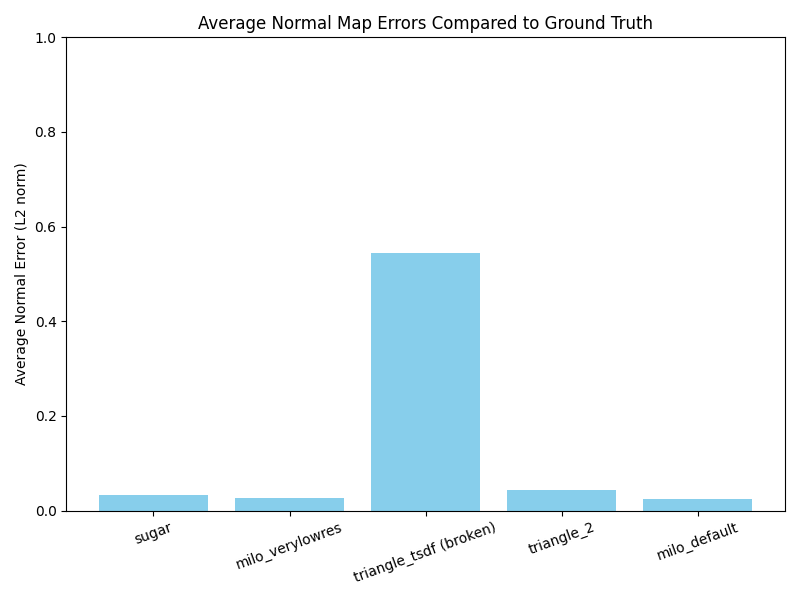
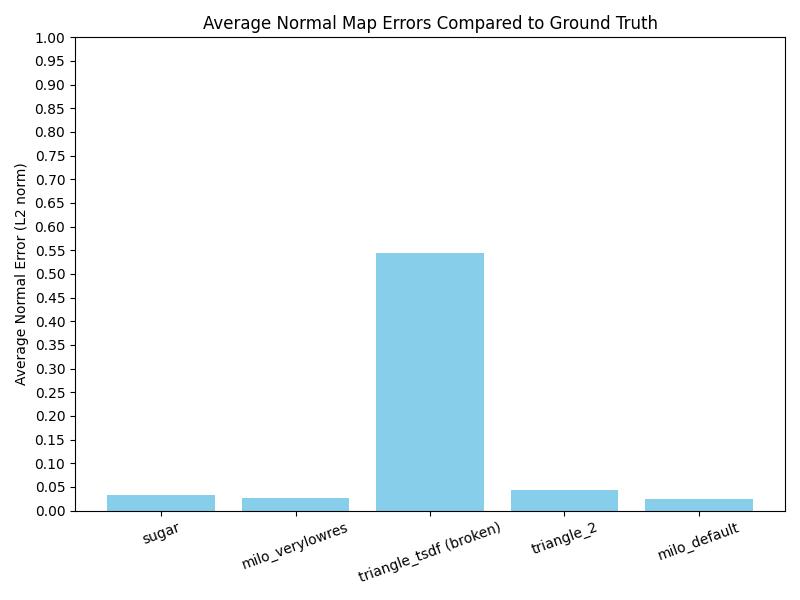
Added illustrations

diff --git a/scripts/output_metrics.py b/scripts/output_metrics.py
@@ -333,6 +333,7 @@ if avg_errors:
     ax.set_ylabel("Average Normal Error (L2 norm)")
     ax.set_title("Average Normal Map Errors Compared to Ground Truth")
     ax.set_ylim(0, 1)
+    ax.set_yticks(np.arange(0.0, 1.0001, 0.05))
     plt.xticks(rotation=20)
     plt.tight_layout()
     plt.savefig(os.path.join(global_dir, "average_normal_errors.png"))
